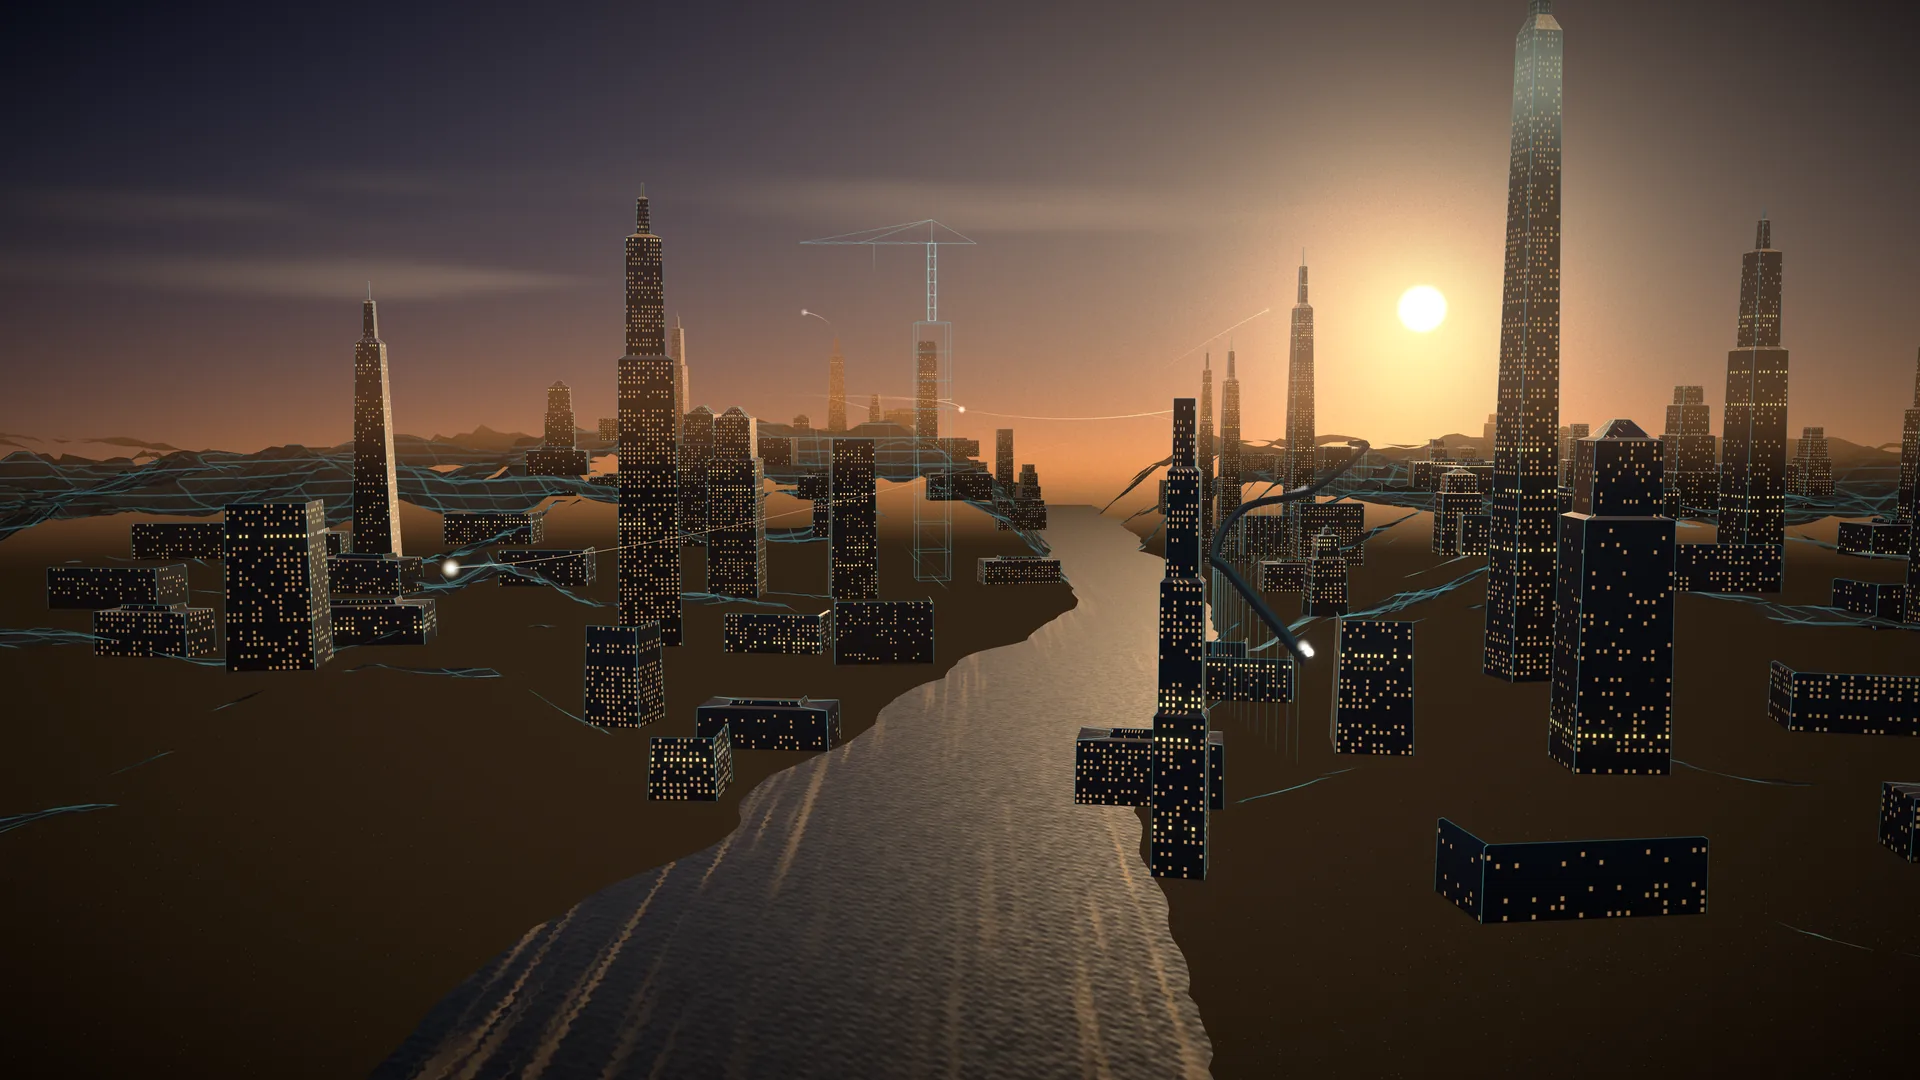
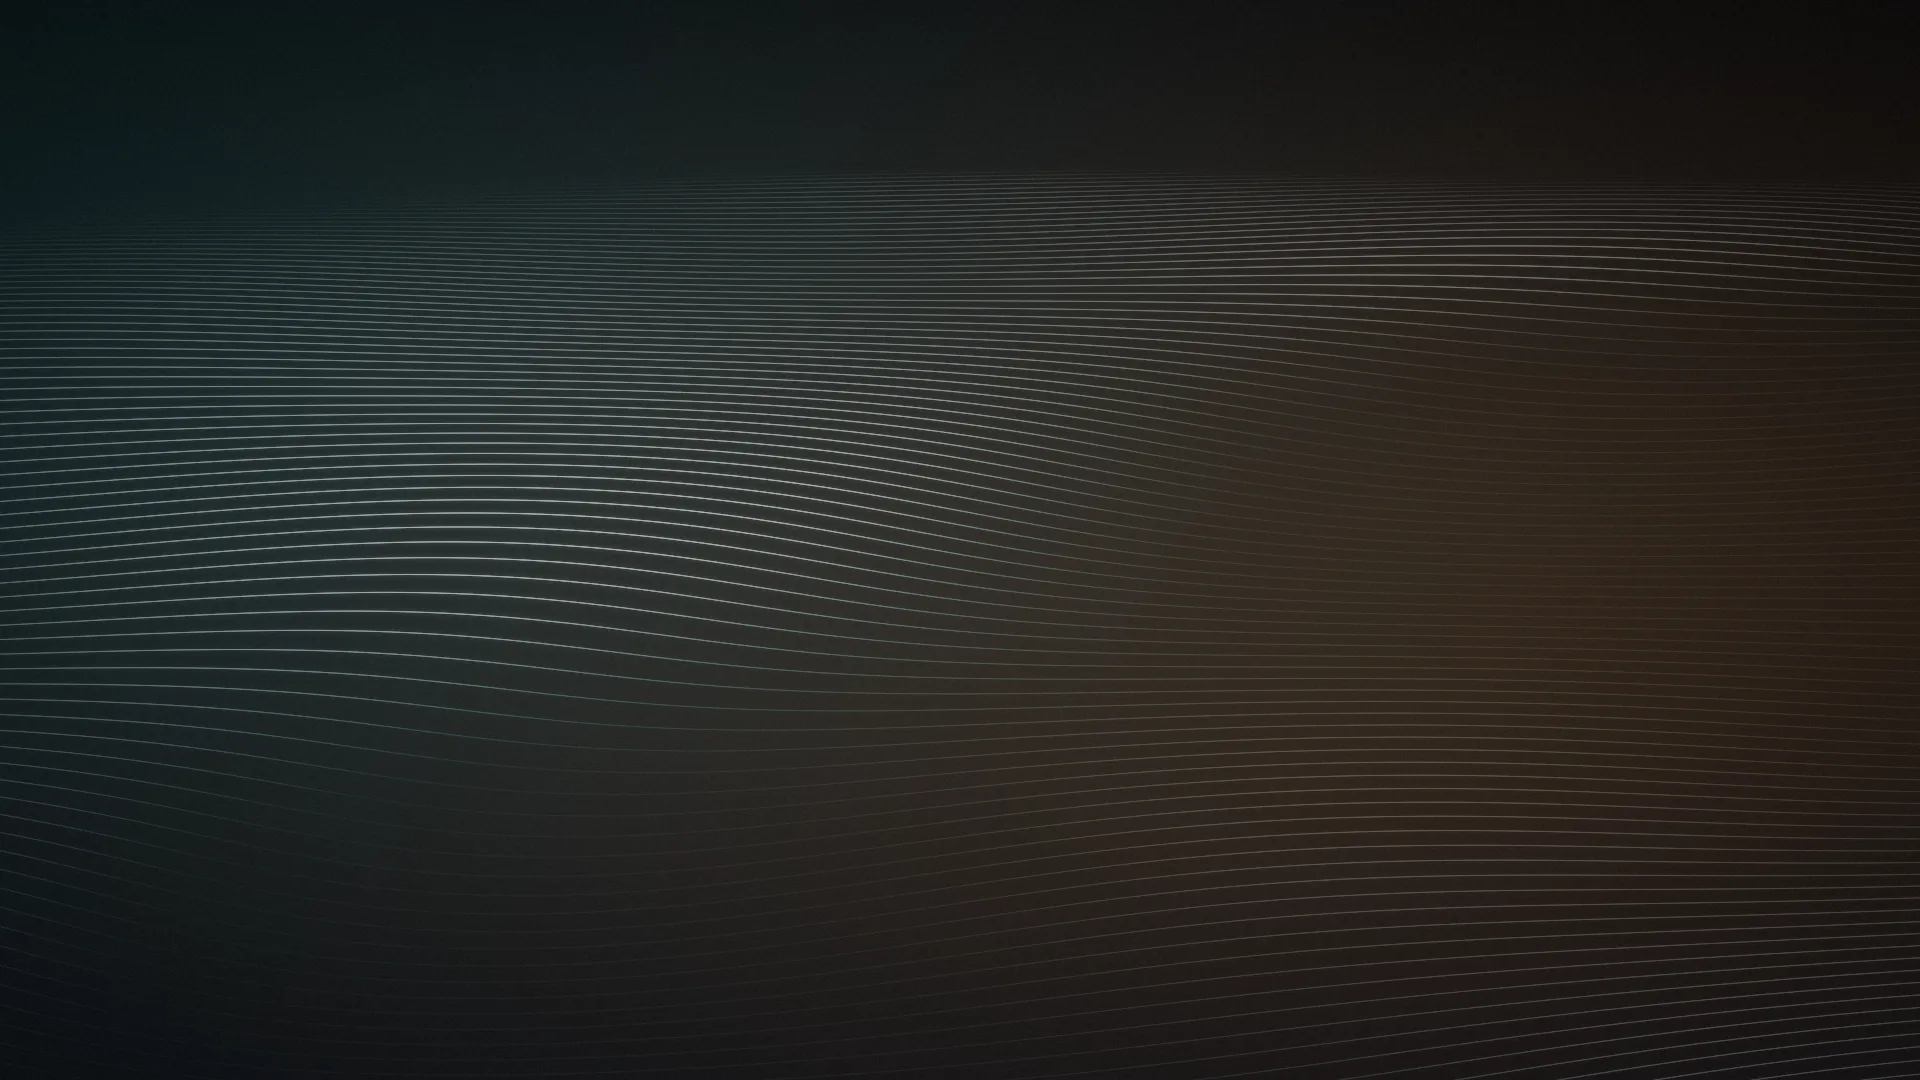
Re-render the hero still from the field shader
The still is what no-JS, reduced-motion and still-loading visitors see,
so it has to be a state the live canvas actually passes through. This one
is 1920x1080 off the production build at the twenty fourth second, which
is the settled field rather than its intro, and off production because
next dev bakes its own overlay into the capture. It is 96 KB against the
retired city's 165 KB.

Claude-Session: https://claude.ai/code/session_01XUdWs9GRpea4B8pkDvccUN

diff --git a/src/data/assets.ts b/src/data/assets.ts
@@ -16,11 +16,11 @@ export const heroPortrait = {
   alt: "Kaya Hickin in a black jacket beside a turquoise glacial lake with mountains behind",
 };
 
-// Hero still: one frame rendered from the site's own WebGL scene in capture
-// mode (?poster=1), 2026-09-14, at 1920x1080, re-rendered the same day from the
-// regraded scene so the still and the live valley share a grade. It is what
-// no-JS, reduced-motion and still-loading visitors see, so it has to be the
-// settled state of the valley.
+// Hero still: one frame of the site's own field shader in capture mode
+// (?poster=1), 2026-09-15, rendered at 1920x1080 off the production build at
+// the twenty fourth second, which is the settled field rather than its intro.
+// It is what no-JS, reduced-motion and still-loading visitors see, so it has to
+// be a state the live canvas actually passes through.
 export const heroPoster = {
   src: "/hero/scene-poster.webp",
 };
